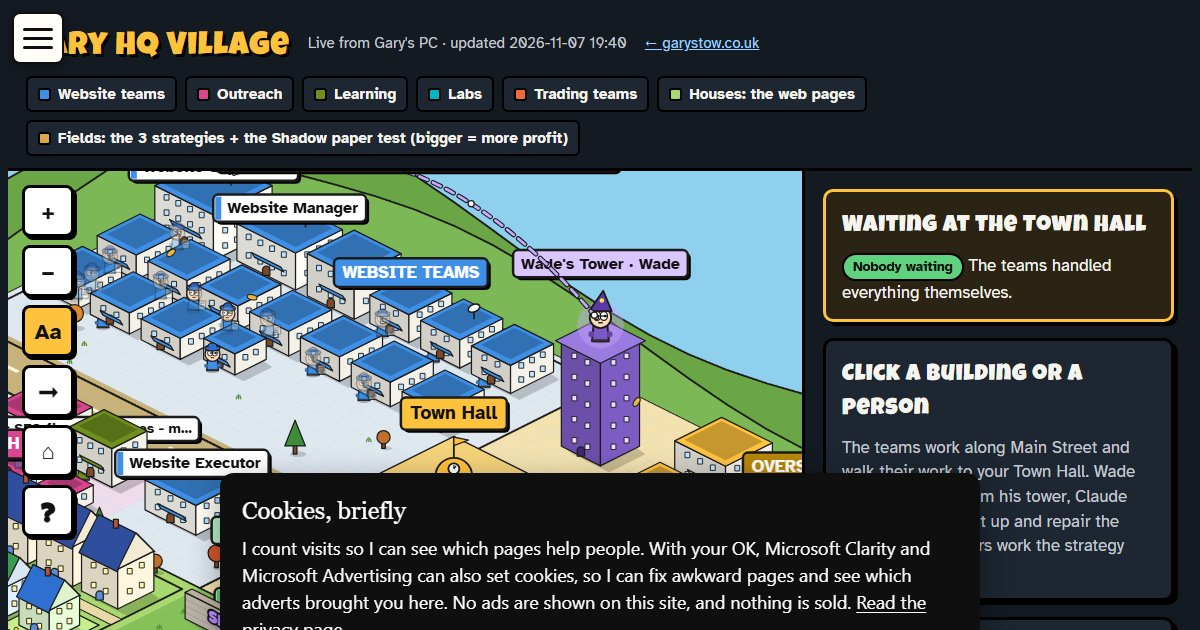
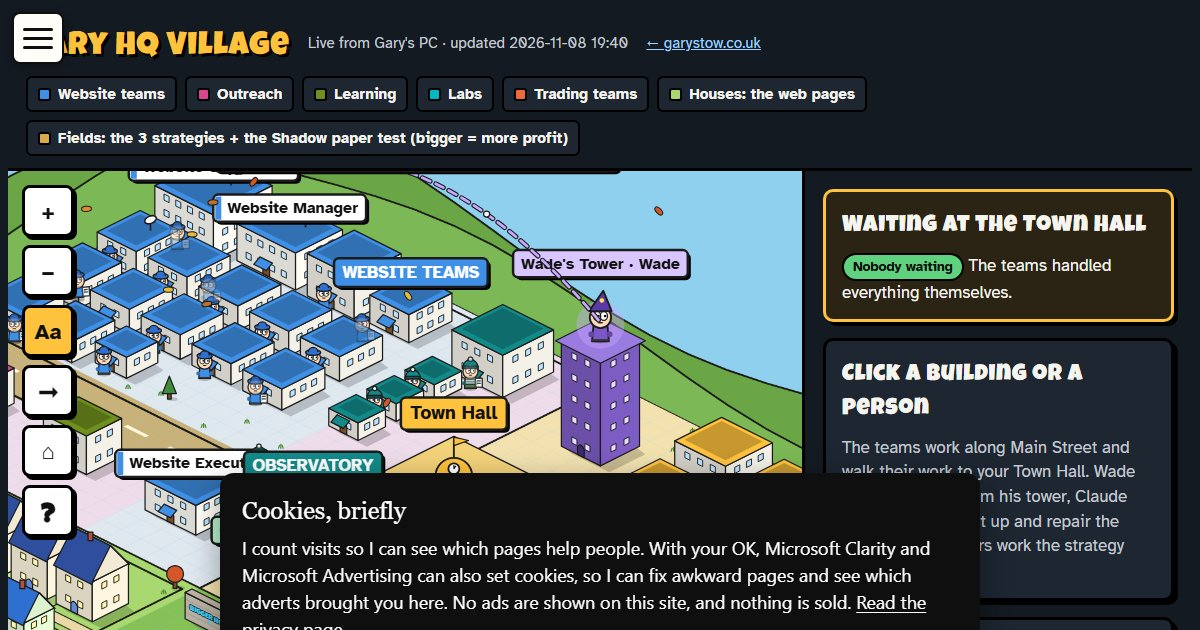
Village: refresh the public data (2026-11-08 19:40)

diff --git a/agents/map/index.html b/agents/map/index.html
@@ -7,17 +7,17 @@
 <link rel="icon" type="image/png" sizes="16x16" href="/assets/favicon-16.png">
 <link rel="apple-touch-icon" sizes="180x180" href="/assets/favicon-180.png">
 <meta name="viewport" content="width=device-width, initial-scale=1.0">
-<title>The Agent Map: 74 AI Agents and How They Connect</title>
-<meta name="description" content="An interactive 3D map of the 74 AI agents I run in my own time, every hand-off between them, and a self-check that turns any break red.">
+<title>The Agent Map: 77 AI Agents and How They Connect</title>
+<meta name="description" content="An interactive 3D map of the 77 AI agents I run in my own time, every hand-off between them, and a self-check that turns any break red.">
 <meta name="robots" content="index, follow">
 <link rel="canonical" href="https://garystow.co.uk/agents/map/">
 <meta property="og:type" content="website">
-<meta property="og:title" content="The Agent Map: 74 AI Agents and How They Connect">
-<meta property="og:description" content="An interactive 3D map of the 74 AI agents I run in my own time, every hand-off between them, and a self-check that turns any break red.">
+<meta property="og:title" content="The Agent Map: 77 AI Agents and How They Connect">
+<meta property="og:description" content="An interactive 3D map of the 77 AI agents I run in my own time, every hand-off between them, and a self-check that turns any break red.">
 <meta property="og:url" content="https://garystow.co.uk/agents/map/">
 <meta name="twitter:card" content="summary">
-<meta name="twitter:title" content="The Agent Map: 74 AI Agents and How They Connect">
-<meta name="twitter:description" content="An interactive 3D map of the 74 AI agents I run in my own time, every hand-off between them, and a self-check that turns any break red.">
+<meta name="twitter:title" content="The Agent Map: 77 AI Agents and How They Connect">
+<meta name="twitter:description" content="An interactive 3D map of the 77 AI agents I run in my own time, every hand-off between them, and a self-check that turns any break red.">
 <link rel="preconnect" href="https://fonts.googleapis.com">
 <link rel="preconnect" href="https://fonts.gstatic.com" crossorigin>
 <link href="https://fonts.googleapis.com/css2?family=DM+Serif+Display:ital@0;1&family=DM+Mono:wght@400;500&family=DM+Sans:ital,wght@0,300;0,400;0,500;0,700;1,300&display=swap" rel="stylesheet" media="print" onload="this.media='all'">
@@ -29,7 +29,7 @@
   "@type": "WebPage",
   "name": "The Agent Map",
   "url": "https://garystow.co.uk/agents/map/",
-  "description": "An interactive 3D map of the 74 AI agents I run in my own time, every hand-off between them, and a self-check that turns any break red.",
+  "description": "An interactive 3D map of the 77 AI agents I run in my own time, every hand-off between them, and a self-check that turns any break red.",
   "isPartOf": { "@type": "WebSite", "name": "Gary Stow", "url": "https://garystow.co.uk/" },
   "author": { "@type": "Person", "name": "Gary Stow", "url": "https://garystow.co.uk/" }
 }
@@ -103,16 +103,16 @@ section.map-sky{background:#070a12;color:#f4f6fb;padding:2rem 4rem 2.5rem;border
 <!-- PAGE HERO -->
 <div class="page-hero">
   <div class="hero-label">AI &amp; agents · The agent map</div>
-  <h1>74 agents. <em>One map.</em></h1>
+  <h1>77 agents. <em>One map.</em></h1>
   <p class="hero-intro">Every light on this sphere is an automation I have built in my own time, and every line is a hand-off from one agent to the next. A small moving light shows which way the work flows. If a hand-off breaks, or an agent ends up on its own with nothing connected to it, it turns red.</p>
   <p class="hero-intro"><a href="/village/">See the same teams as a living village &#8594;</a></p>
 </div>
 
 <div class="map-stats" aria-label="The map at a glance">
-  <div class="map-stat"><b>74</b><span>Agents running</span></div>
-  <div class="map-stat"><b>115</b><span>Hand-offs between them</span></div>
+  <div class="map-stat"><b>77</b><span>Agents running</span></div>
+  <div class="map-stat"><b>128</b><span>Hand-offs between them</span></div>
   <div class="map-stat"><b>3</b><span>Teams pulling toward 2 goals</span></div>
-  <div class="map-stat ok"><b>0</b><span>Problems right now: all green</span></div>
+  <div class="map-stat bad"><b>2</b><span>Problems right now</span></div>
 </div>
 
 <!-- THE SPHERE -->
@@ -157,9 +157,9 @@ section.map-sky{background:#070a12;color:#f4f6fb;padding:2rem 4rem 2.5rem;border
       <p>It also looks for agents left on their own. An agent with nothing coming in and nothing going out is doing work nobody uses, so it is flagged just like a break.</p>
     </div>
     <div>
-      <h3>How it grew to 74</h3>
+      <h3>How it grew to 77</h3>
       <p>This started as one trading scanner. Every agent since has been added for a reason: each time a real problem came up, I built something to catch it permanently instead of fixing it by hand once. That rule is why the map keeps getting bigger, and why each new agent has to connect into the rest before it counts.</p>
-      <p>74 agents and 115 hand-offs running at the same time, from my home PC and GitHub, is the bit I am proudest of. It is far too many to hold in my head, which is exactly why it needed a map.</p>
+      <p>77 agents and 128 hand-offs running at the same time, from my home PC and GitHub, is the bit I am proudest of. It is far too many to hold in my head, which is exactly why it needed a map.</p>
     </div>
     <div>
       <h3>How to read it</h3>
@@ -175,7 +175,7 @@ section.map-sky{background:#070a12;color:#f4f6fb;padding:2rem 4rem 2.5rem;border
     <span class="section-num">02</span>
     <h2>Every agent on the map</h2>
   </div>
-  <p style="margin-bottom:1.5rem;max-width:65ch">Last checked 7 Nov 2026, 19:35. This public copy refreshes every evening.</p>
+  <p style="margin-bottom:1.5rem;max-width:65ch">Last checked 8 Nov 2026, 19:35. This public copy refreshes every evening.</p>
   <details open>
     <summary>The two goals (2)</summary>
     <dl>
@@ -184,13 +184,10 @@ section.map-sky{background:#070a12;color:#f4f6fb;padding:2rem 4rem 2.5rem;border
     </dl>
   </details>
   <details open>
-    <summary>Gary and Wade (5)</summary>
+    <summary>Gary and Wade (2)</summary>
     <dl>
       <dt>Gary (decides)</dt><dd>Gary himself. He only sees what genuinely needs a human decision: drafts to approve, changes to the site and anything that touches trading. Everything else the teams handle on their own.</dd>
       <dt>Wade (local AI)</dt><dd>Gary&#x27;s local AI model, running on his home PC through LM Studio. Wade drafts articles, runs the website departments and the Supervisor, and scores work for the other teams. A queue makes jobs take turns so he never overloads.</dd>
-      <dt>Goal Supervisors (website + trading)</dt><dd>One of the newest agents on the team. Its public description is still being written.</dd>
-      <dt>Independent Auditor</dt><dd>One of the newest agents on the team. Its public description is still being written.</dd>
-      <dt>Results log (what came of the work)</dt><dd>One of the newest agents on the team. Its public description is still being written.</dd>
     </dl>
   </details>
   <details>
@@ -236,7 +233,7 @@ section.map-sky{background:#070a12;color:#f4f6fb;padding:2rem 4rem 2.5rem;border
     </dl>
   </details>
   <details>
-    <summary>Trading team (28)</summary>
+    <summary>Trading team (27)</summary>
     <dl>
       <dt>Trading runs (GitHub)</dt><dd>The trading system&#x27;s scheduled runs: scanning the market and placing practice orders for each strategy on a timetable.</dd>
       <dt>Analyst</dt><dd>Reads every trading signal every 30 minutes and flags anything odd in the data.</dd>
@@ -262,17 +259,18 @@ section.map-sky{background:#070a12;color:#f4f6fb;padding:2rem 4rem 2.5rem;border
       <dt>Task Health Watchdog</dt><dd>Checks every scheduled task across the whole system and explains any failure.</dd>
       <dt>Go-Live Scorecard</dt><dd>Decides whether a strategy is ready for real money: clean days, shadow results and practice profit after costs.</dd>
       <dt>Wade Repo Auto Pull</dt><dd>Keeps the trading code on Gary&#x27;s PC up to date every 30 minutes.</dd>
-      <dt>Did-It-Work Desk</dt><dd>One of the newest agents on the team. Its public description is still being written.</dd>
       <dt>Idea Tester</dt><dd>One of the newest agents on the team. Its public description is still being written.</dd>
       <dt>Combo Scout</dt><dd>One of the newest agents on the team. Its public description is still being written.</dd>
       <dt>Bear Squad (paper)</dt><dd>One of the newest agents on the team. Its public description is still being written.</dd>
     </dl>
   </details>
   <details>
-    <summary>Career and outreach (2)</summary>
+    <summary>Career and outreach (4)</summary>
     <dl>
       <dt>Observatory (private)</dt><dd>A private agent. It stays on the map so you can see it is connected, but what it does is kept private.</dd>
       <dt>Outreach team (private)</dt><dd>A private agent. It stays on the map so you can see it is connected, but what it does is kept private.</dd>
+      <dt>Social desk (LinkedIn)</dt><dd>One of the newest agents on the team. Its public description is still being written.</dd>
+      <dt>Social Coach (weekly LinkedIn brief)</dt><dd>One of the newest agents on the team. Its public description is still being written.</dd>
     </dl>
   </details>
 </section>

diff --git a/village/index.html b/village/index.html
@@ -1143,5 +1143,6 @@ requestAnimationFrame(t => { last = t; frame(t); });
 })();
 </script>
 
+<script src="/assets/nav.js?v=4705835f" defer></script>
 </body>
 </html>
